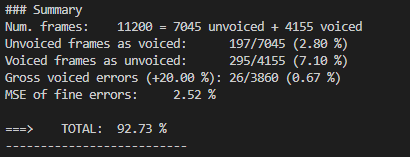
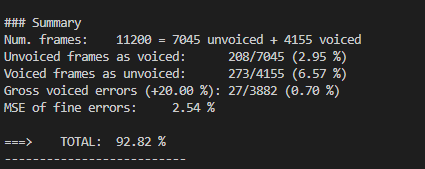
readme con eso

diff --git a/README.md b/README.md
@@ -186,11 +186,11 @@ float PitchAnalyzer::compute_pitch(vector<float> & x) const {
 Taula:
 | Error type                  | Number of errors      | %      |
 |----------------------------|-----------------------|--------|
-| Unvoiced frames as voiced  | 197/7045              | 2.80   |
-| Voiced frames as unvoiced  | 295/4155              | 7.10   |
-| Gross voiced errors (+20%) | 26/3887               | 0.67   |
-| MSE of fine errors         |                       | 2.52   |
-| **TOTAL**                  |                       | **92.73** |
+| Unvoiced frames as voiced  | 208/7045              | 2.95   |
+| Voiced frames as unvoiced  | 273/4155              | 6.57   |
+| Gross voiced errors (+20%) | 27/3887               | 0.70   |
+| MSE of fine errors         |                       | 2.54   |
+| **TOTAL**                  |                       | **92.82** |
 
 Captura de pantalla:
 
